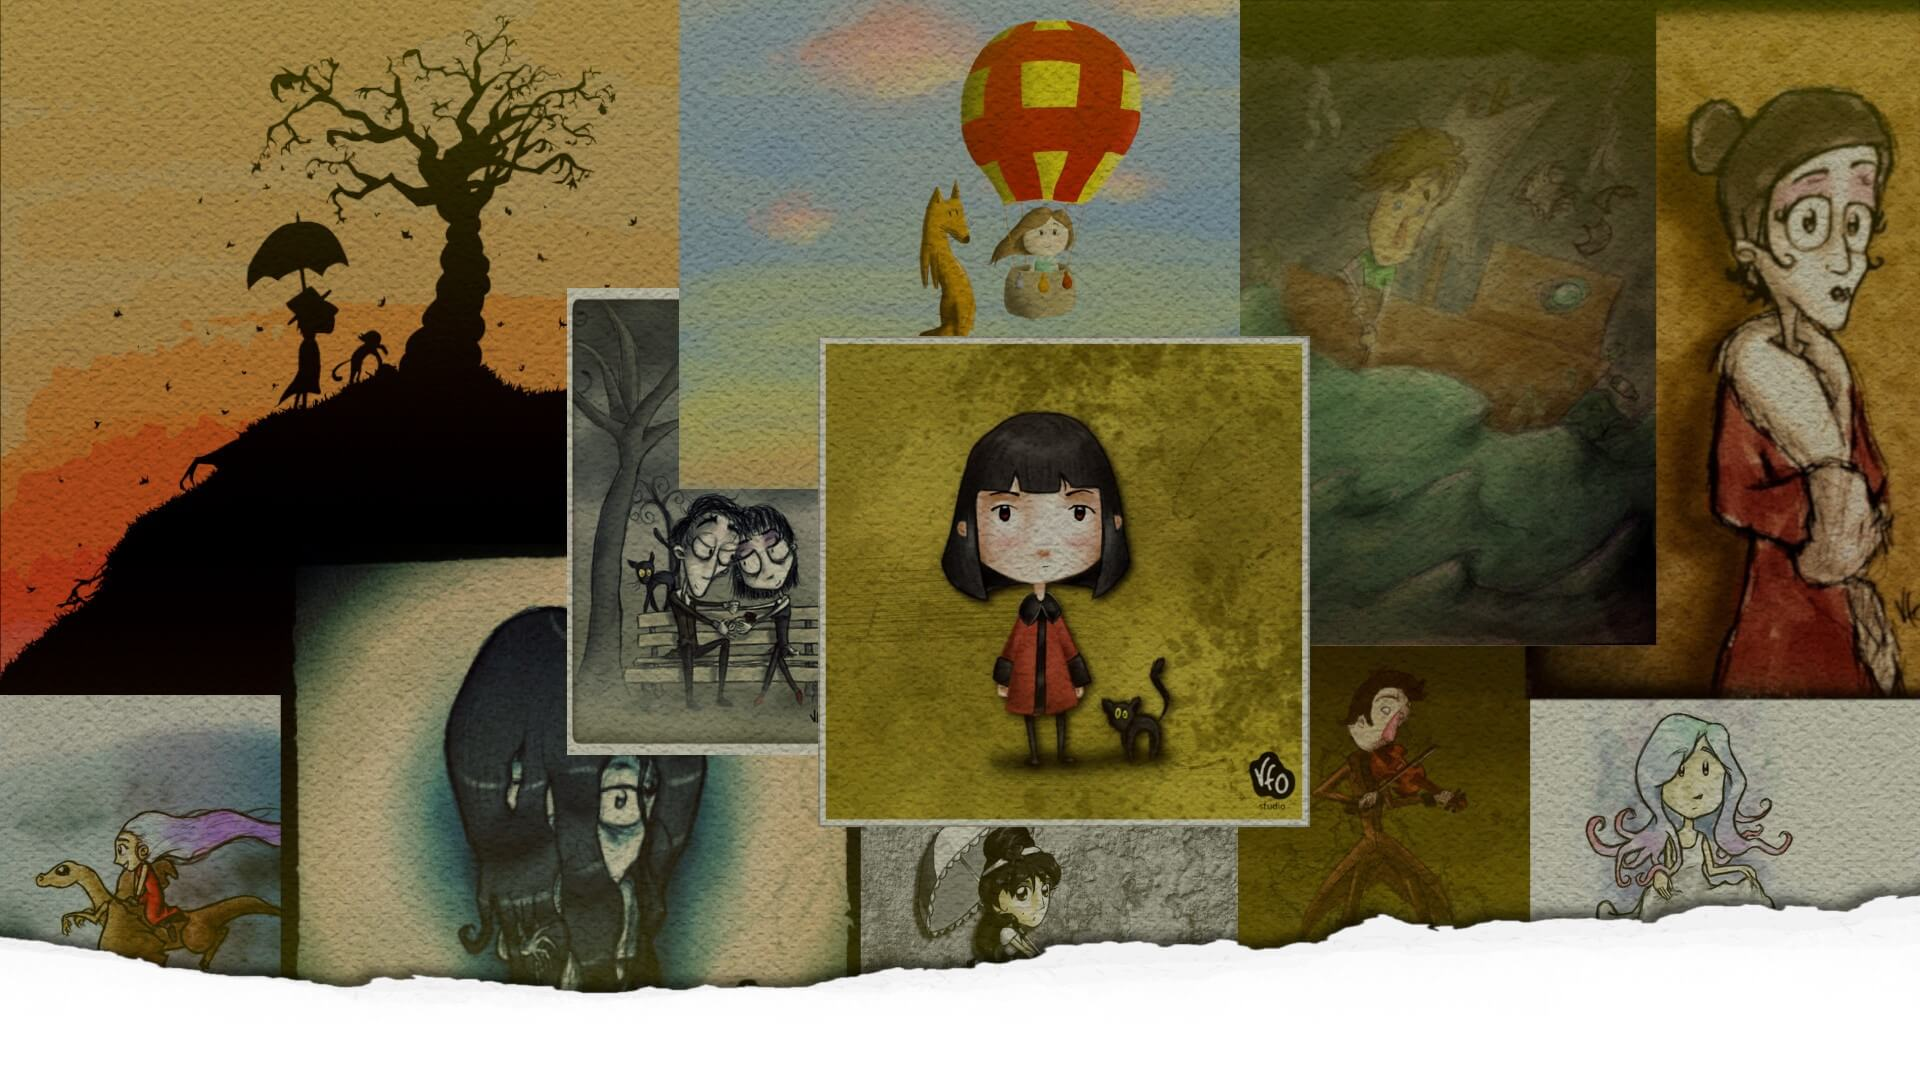
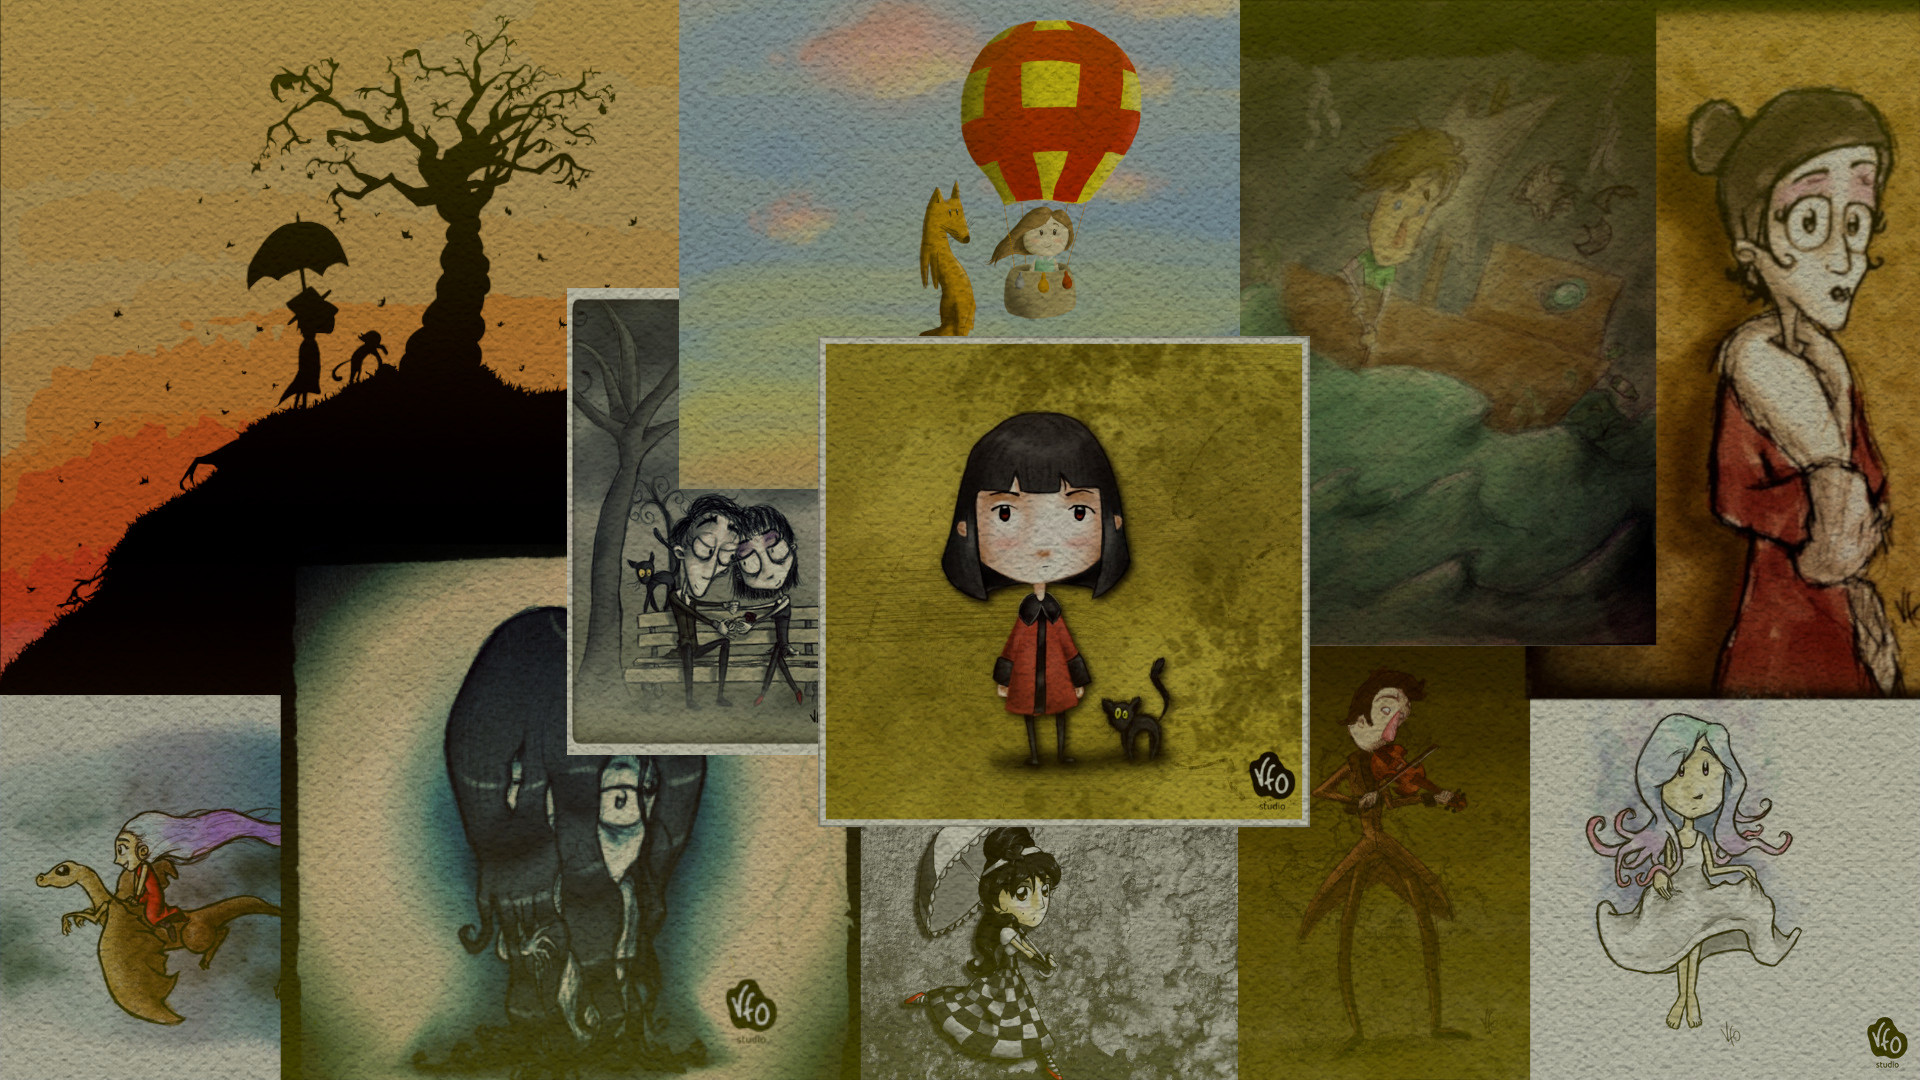
improving hero section with fixed bg attachment

Changed region(s): [[0.0, 0.7944, 1.0, 1.0], [0.0312, 0.5194, 0.0625, 0.5806], [0.0938, 0.4278, 0.125, 0.4583]]

diff --git a/src/styles/_hero.scss b/src/styles/_hero.scss
@@ -3,28 +3,34 @@
     min-height: 100vh;
     background-image: url(../images/hero1.jpg);
     background-size: cover;
+    background-attachment: fixed;
     text-align: center;
+    position: relative;
 
     &__content {
         display: inline-block;
         max-width: 500px;
         width: 100%;
-        margin-top: 10%;
+        margin-top: 7%;
         color: #fff;
         font-size: 20pt;
-        text-shadow: 2px 2px 4px #404040;
-
-        & img {
-            width: 80%;
-        }
+        text-shadow: 0px 2px 4px rgba(0, 0, 0, 0.938);
 
         & .welcome {
+            width: 80%;
             display: none;
         }
 
         & .intro {
             display: none;
         }
+    }
+
+    .paper {
+        position: absolute;
+        left: 0;
+        bottom: 0;
+        width: 100%;
     }
 }
 
@@ -47,11 +53,5 @@
 
     .hero {
         min-height: 600px;
-    }
-}
-
-@media screen and (min-width: 768px) and (max-width: 1023px) {
-    .hero__content {
-        margin-top: 30%;
     }
 }

diff --git a/pt.html b/pt.html
@@ -113,12 +113,13 @@
         </div>
         <section class="hero" id="section1">
             <div class="hero__content fade-in">
-                <img class="welcome fade-in" src="./dist/images/boas-vindas.svg" alt="Boas-vindas" width="250px" style="margin: 30px;">
+                <img class="welcome fade-in" src="./dist/images/boas-vindas.svg" alt="Boas-vindas">
                 <div class="intro fade-in">
                     <p>Um estúdio de arte por: <br>Victor F. Oliveira</p>
                     <div class="bounce"><a href="#section2"><div id="btn">Iniciar</div></a></div>
                 </div>
             </div>
+            <img class="paper" src="./dist/images/paper.png" alt="paper">
         </section>
         <section class="wrapper portfolio" id="section2">
             <h2>Portfólio</h2>

diff --git a/index.html b/index.html
@@ -113,12 +113,13 @@
         </div>
         <section class="hero" id="section1">
             <div class="hero__content">
-                <img class="welcome fade-in" src="./dist/images/welcome.svg" alt="Welcome message" width="250px" style="margin: 30px;">
+                <img class="welcome fade-in" src="./dist/images/welcome.svg" alt="Welcome message">
                 <div class="intro fade-in">
                     <p>An art studio by: <br>Victor F. Oliveira</p>
                     <div class="bounce"><a href="#section2"><div id="btn">START</div></a></div>
                 </div>
             </div>
+            <img class="paper" src="./dist/images/paper.png" alt="paper">
         </section>
         <section class="wrapper portfolio" id="section2">
             <h2>Portfolio</h2>
